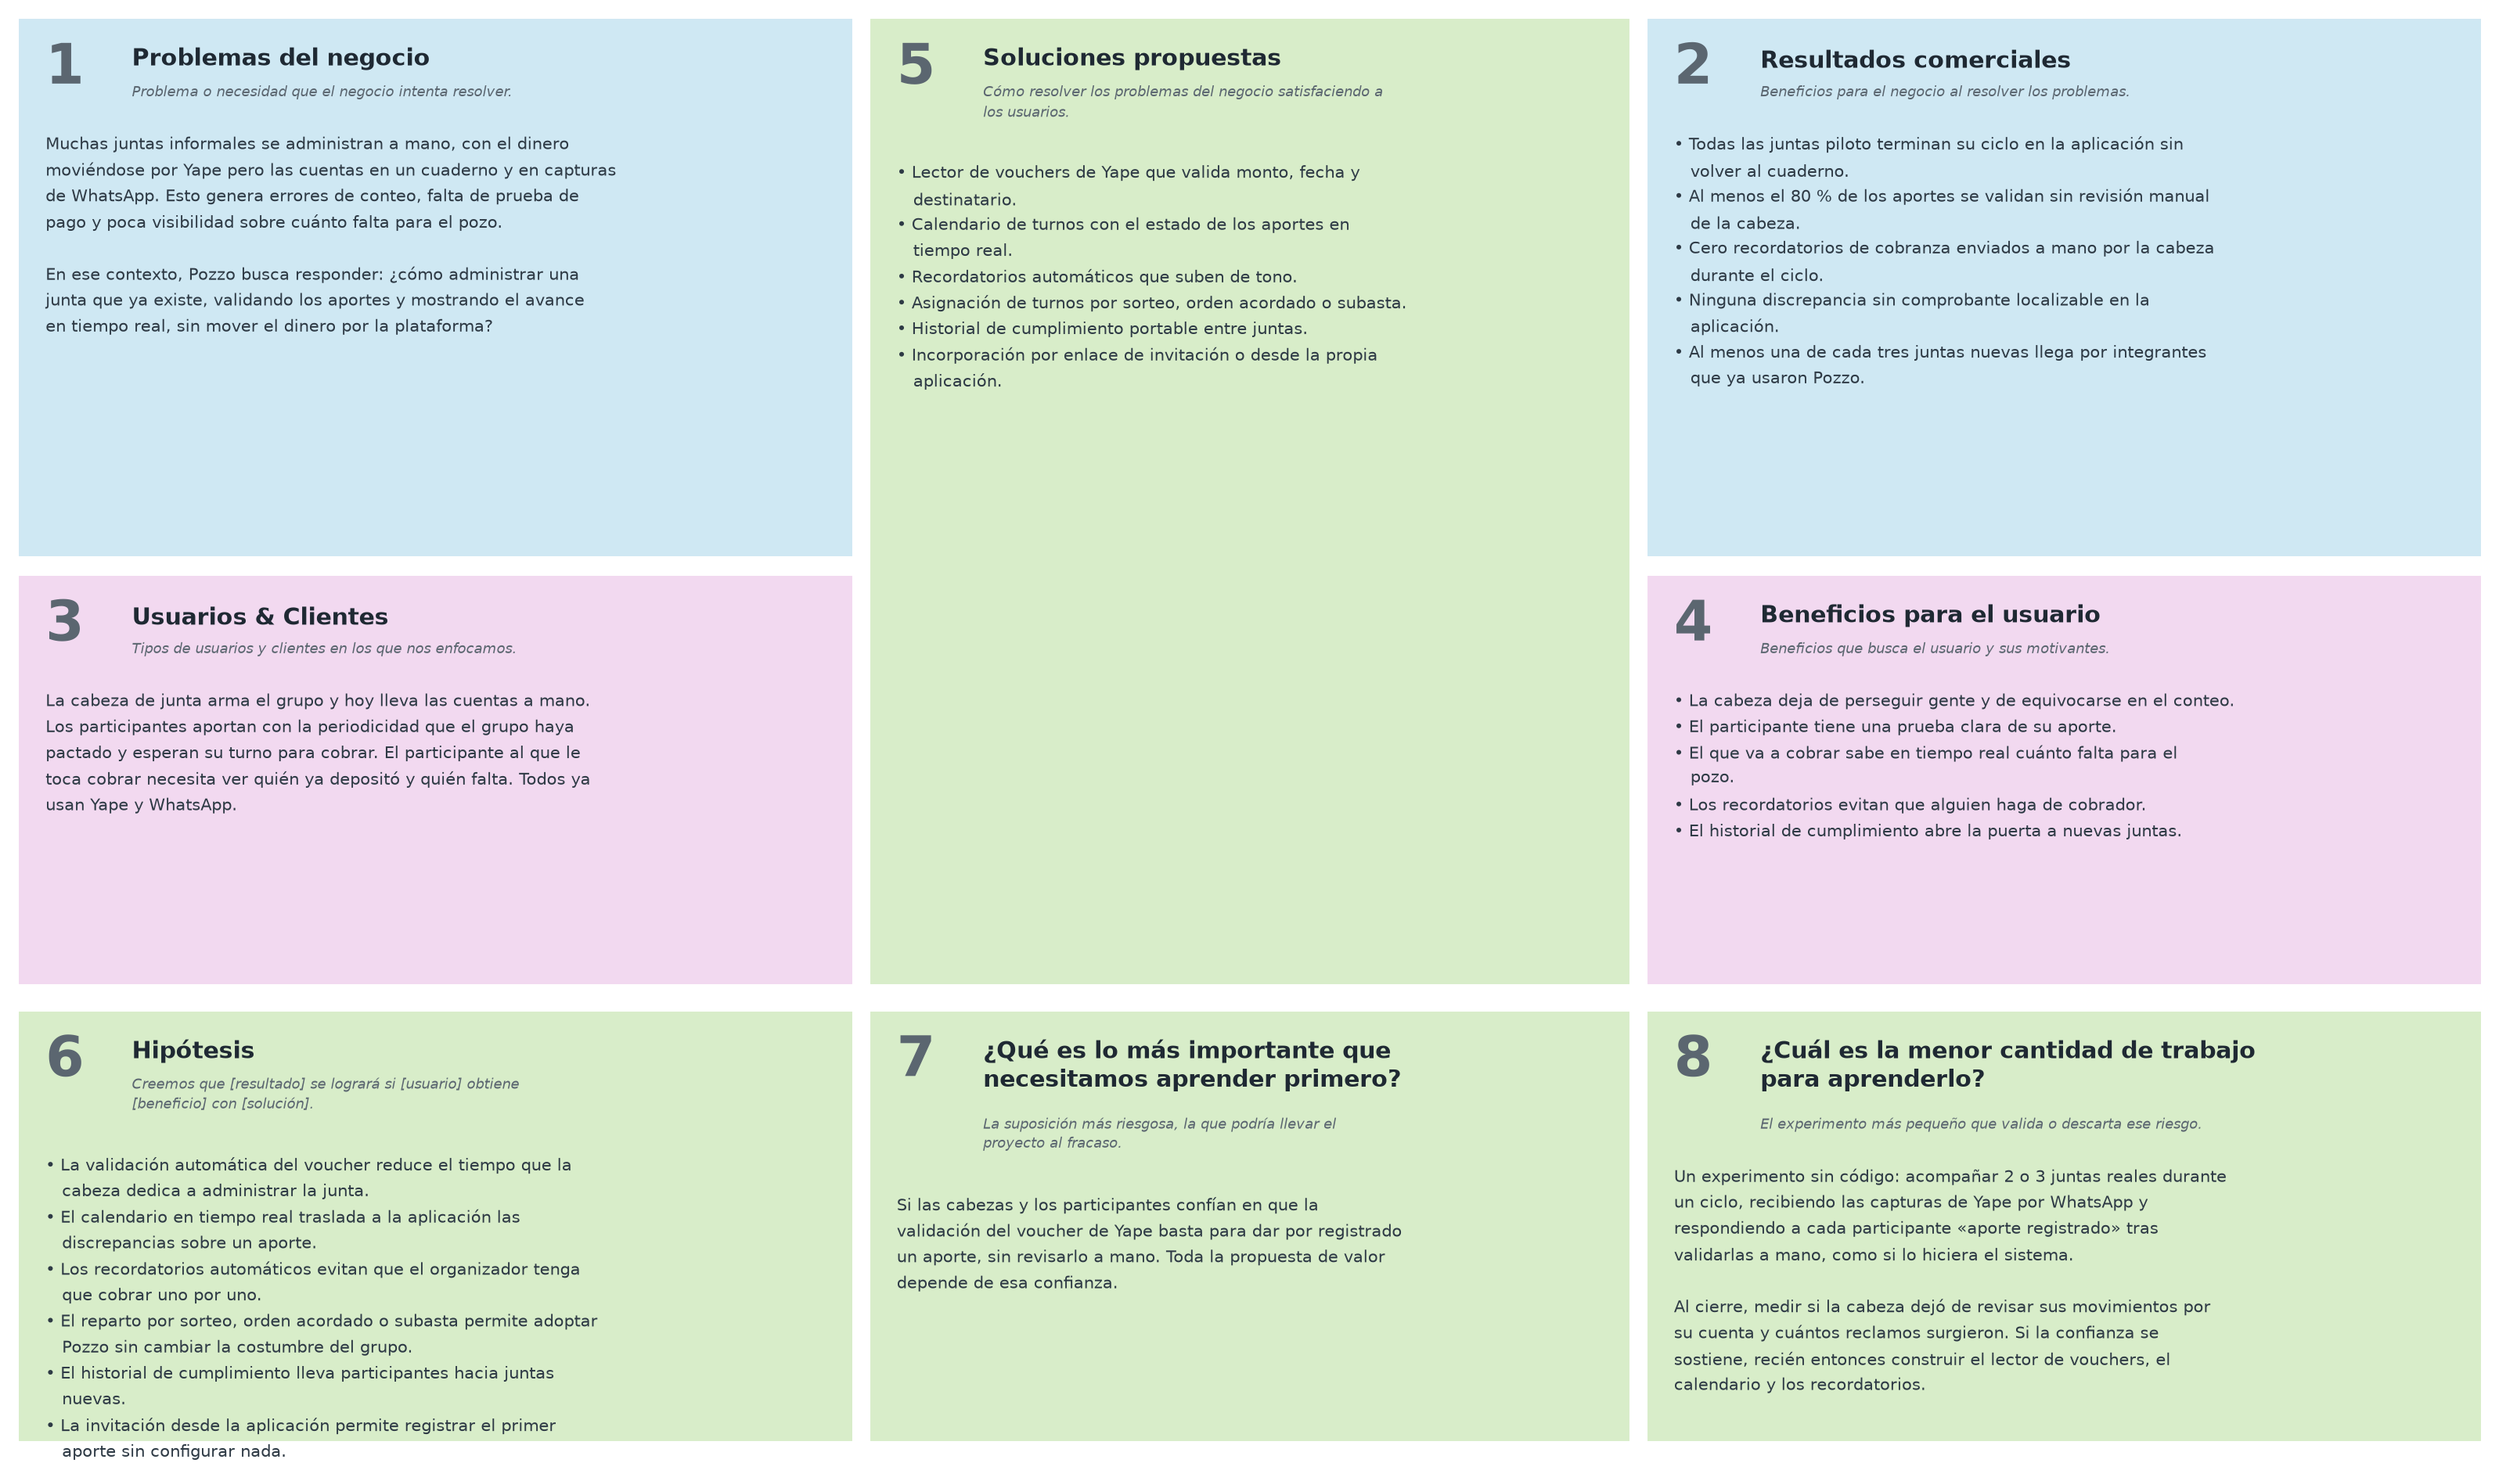
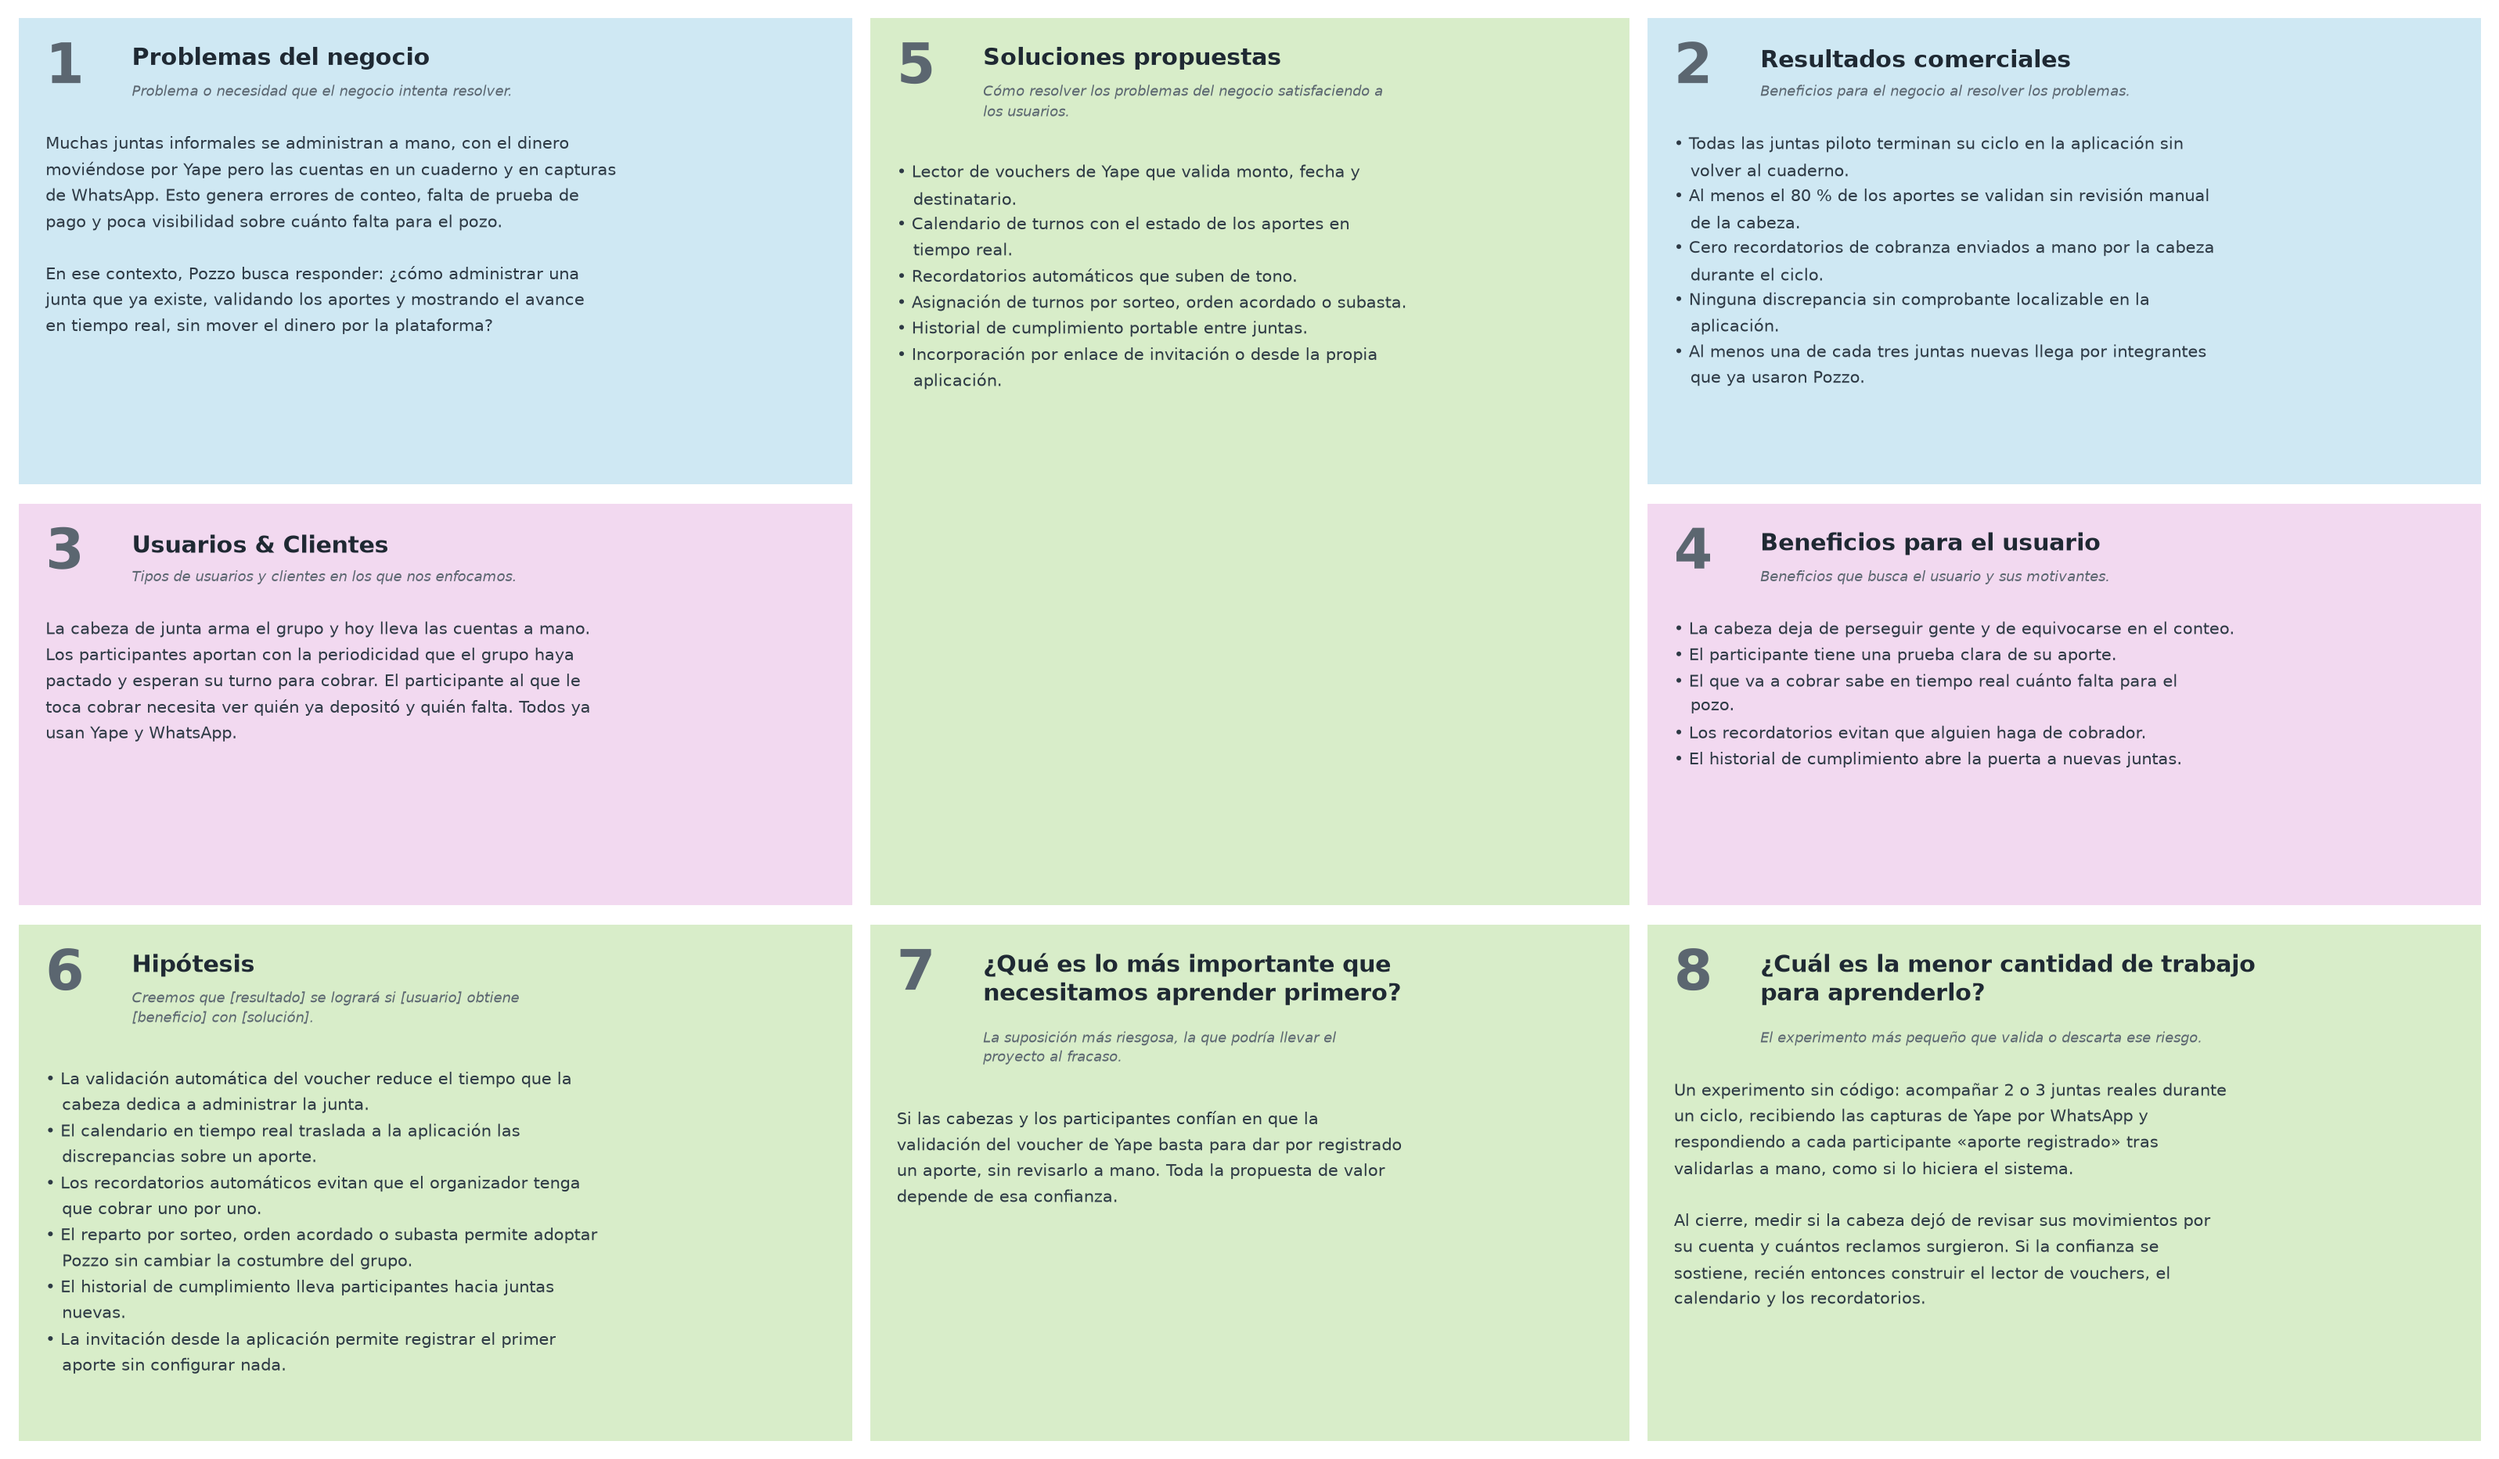
docs: cite annex C and tidy the Lean UX Canvas and the EventStorming legend
Annex C was the only annex no section pointed to; Software Architecture now does. The hypotheses box of the canvas ran into its bottom edge, so the bottom row is taller and the middle row shorter. The legend was a single 1600x6629 column that printed as a narrow strip; it is now a two-column grid at 75% of the text width.

diff --git a/scripts/lean-ux-canvas.py b/scripts/lean-ux-canvas.py
@@ -31,7 +31,7 @@ CAJAS = [
      'En ese contexto, Pozzo busca responder: ¿cómo administrar una junta que ya existe, '
      'validando los aportes y mostrando el avance en tiempo real, sin mover el dinero por '
      'la plataforma?',
-     AZUL, 0.00, 0.62, 0.34, 0.38),
+     AZUL, 0.00, 0.67, 0.34, 0.33),
 
     (5, 'Soluciones propuestas',
      'Cómo resolver los problemas del negocio satisfaciendo a los usuarios.',
@@ -41,7 +41,7 @@ CAJAS = [
      '• Asignación de turnos por sorteo, orden acordado o subasta.\n'
      '• Historial de cumplimiento portable entre juntas.\n'
      '• Incorporación por enlace de invitación o desde la propia aplicación.',
-     VERDE, 0.345, 0.32, 0.31, 0.68),
+     VERDE, 0.345, 0.375, 0.31, 0.625),
 
     (2, 'Resultados comerciales',
      'Beneficios para el negocio al resolver los problemas.',
@@ -50,7 +50,7 @@ CAJAS = [
      '• Cero recordatorios de cobranza enviados a mano por la cabeza durante el ciclo.\n'
      '• Ninguna discrepancia sin comprobante localizable en la aplicación.\n'
      '• Al menos una de cada tres juntas nuevas llega por integrantes que ya usaron Pozzo.',
-     AZUL, 0.66, 0.62, 0.34, 0.38),
+     AZUL, 0.66, 0.67, 0.34, 0.33),
 
     (3, 'Usuarios & Clientes',
      'Tipos de usuarios y clientes en los que nos enfocamos.',
@@ -58,7 +58,7 @@ CAJAS = [
      'aportan con la periodicidad que el grupo haya pactado y esperan su turno para cobrar. '
      'El participante al que le toca cobrar necesita ver quién ya depositó y quién falta. '
      'Todos ya usan Yape y WhatsApp.',
-     ROSA, 0.00, 0.32, 0.34, 0.29),
+     ROSA, 0.00, 0.375, 0.34, 0.285),
 
     (4, 'Beneficios para el usuario',
      'Beneficios que busca el usuario y sus motivantes.',
@@ -67,7 +67,7 @@ CAJAS = [
      '• El que va a cobrar sabe en tiempo real cuánto falta para el pozo.\n'
      '• Los recordatorios evitan que alguien haga de cobrador.\n'
      '• El historial de cumplimiento abre la puerta a nuevas juntas.',
-     ROSA, 0.66, 0.32, 0.34, 0.29),
+     ROSA, 0.66, 0.375, 0.34, 0.285),
 
     (6, 'Hipótesis',
      'Creemos que [resultado] se logrará si [usuario] obtiene [beneficio] con [solución].',
@@ -77,14 +77,14 @@ CAJAS = [
      '• El reparto por sorteo, orden acordado o subasta permite adoptar Pozzo sin cambiar la costumbre del grupo.\n'
      '• El historial de cumplimiento lleva participantes hacia juntas nuevas.\n'
      '• La invitación desde la aplicación permite registrar el primer aporte sin configurar nada.',
-     VERDE, 0.00, 0.00, 0.34, 0.305),
+     VERDE, 0.00, 0.00, 0.34, 0.365),
 
     (7, '¿Qué es lo más importante que necesitamos aprender primero?',
      'La suposición más riesgosa, la que podría llevar el proyecto al fracaso.',
      'Si las cabezas y los participantes confían en que la validación del voucher de Yape '
      'basta para dar por registrado un aporte, sin revisarlo a mano. Toda la propuesta de '
      'valor depende de esa confianza.',
-     VERDE, 0.345, 0.00, 0.31, 0.305),
+     VERDE, 0.345, 0.00, 0.31, 0.365),
 
     (8, '¿Cuál es la menor cantidad de trabajo para aprenderlo?',
      'El experimento más pequeño que valida o descarta ese riesgo.',
@@ -94,7 +94,7 @@ CAJAS = [
      'Al cierre, medir si la cabeza dejó de revisar sus movimientos por su cuenta y cuántos '
      'reclamos surgieron. Si la confianza se sostiene, recién entonces construir el lector '
      'de vouchers, el calendario y los recordatorios.',
-     VERDE, 0.66, 0.00, 0.34, 0.305),
+     VERDE, 0.66, 0.00, 0.34, 0.365),
 ]
 
 

diff --git a/docs/chapter_2.md b/docs/chapter_2.md
@@ -3535,7 +3535,7 @@ Se usó la notación de Brandolini, que asigna un color de nota a cada concepto 
 
 La Figura 34 muestra la leyenda del EventStorming de nivel de diseño.
 
-![Leyenda del EventStorming de nivel de diseño](images/chapter_2/es_leyenda.png)
+![Leyenda del EventStorming de nivel de diseño](images/chapter_2/es_leyenda.png){width=75%}
 
 Para que el resultado se pueda leer, el tablero se organizó en columnas y carriles. Cada columna es un paso del proceso y cada carril un tipo de nota, de modo que una columna se lee de arriba abajo como una frase: tal actor ejecuta tal comando sobre tal agregado y se produce tal evento, que dispara tal política. La sesión recorrió el ciclo de una junta en cuatro tramos.
 
@@ -3776,7 +3776,7 @@ No se usa Shared Kernel: ningún contexto comparte código de dominio con otro. 
 
 ### 2.5.3. Software Architecture
 
-La arquitectura de software de Pozzo se representa con el C4 Model [@brown2018c4], que describe un sistema en niveles de abstracción sucesivos: el contexto, que muestra al sistema como una caja rodeada de sus usuarios y de los sistemas externos con los que conversa; los contenedores, que descomponen el sistema en las unidades que se ejecutan o almacenan datos por separado y fijan la tecnología de cada una; los componentes, que abren cada contenedor en sus bloques internos; y el código. Esta sección presenta los tres primeros niveles para la solución completa: la aplicación móvil, los servicios RESTful de desarrollo propio y el landing page, más un diagrama de despliegue que ubica cada contenedor en la infraestructura donde corre. Los diagramas de componentes se presentan por Bounded Context en la sección Tactical-Level Domain-Driven Design. Todos se describen en el lenguaje de Structurizr, en el archivo `docs/architecture/workspace.dsl` del repositorio, y se renderizan con Structurizr, de modo que la arquitectura se versiona y se revisa junto con el texto del informe.
+La arquitectura de software de Pozzo se representa con el C4 Model [@brown2018c4], que describe un sistema en niveles de abstracción sucesivos: el contexto, que muestra al sistema como una caja rodeada de sus usuarios y de los sistemas externos con los que conversa; los contenedores, que descomponen el sistema en las unidades que se ejecutan o almacenan datos por separado y fijan la tecnología de cada una; los componentes, que abren cada contenedor en sus bloques internos; y el código. Esta sección presenta los tres primeros niveles para la solución completa: la aplicación móvil, los servicios RESTful de desarrollo propio y el landing page, más un diagrama de despliegue que ubica cada contenedor en la infraestructura donde corre. Los diagramas de componentes se presentan por Bounded Context en la sección Tactical-Level Domain-Driven Design. Todos se describen en el lenguaje de Structurizr, en el archivo `docs/architecture/workspace.dsl` del repositorio, y se renderizan con Structurizr, de modo que la arquitectura se versiona y se revisa junto con el texto del informe. El Anexo C, Fuentes de los diagramas de arquitectura, indica el archivo del que sale cada diagrama.
 
 #### 2.5.3.1. Software Architecture Context Level Diagrams
 
